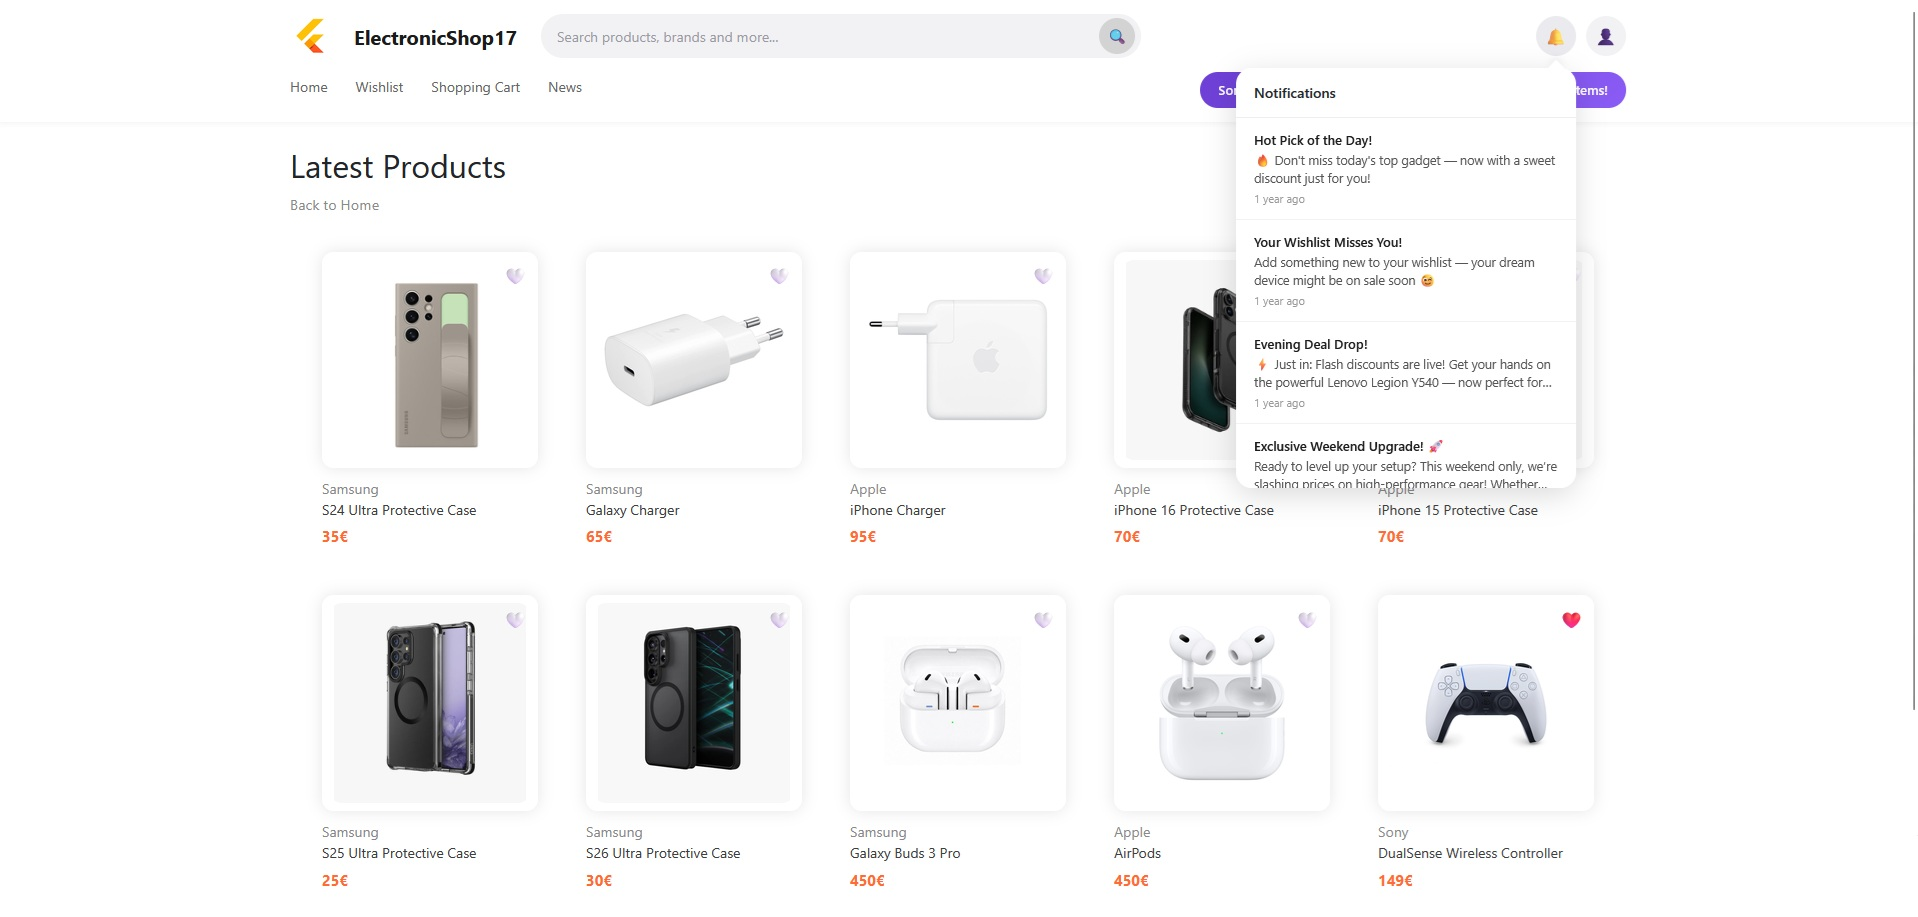
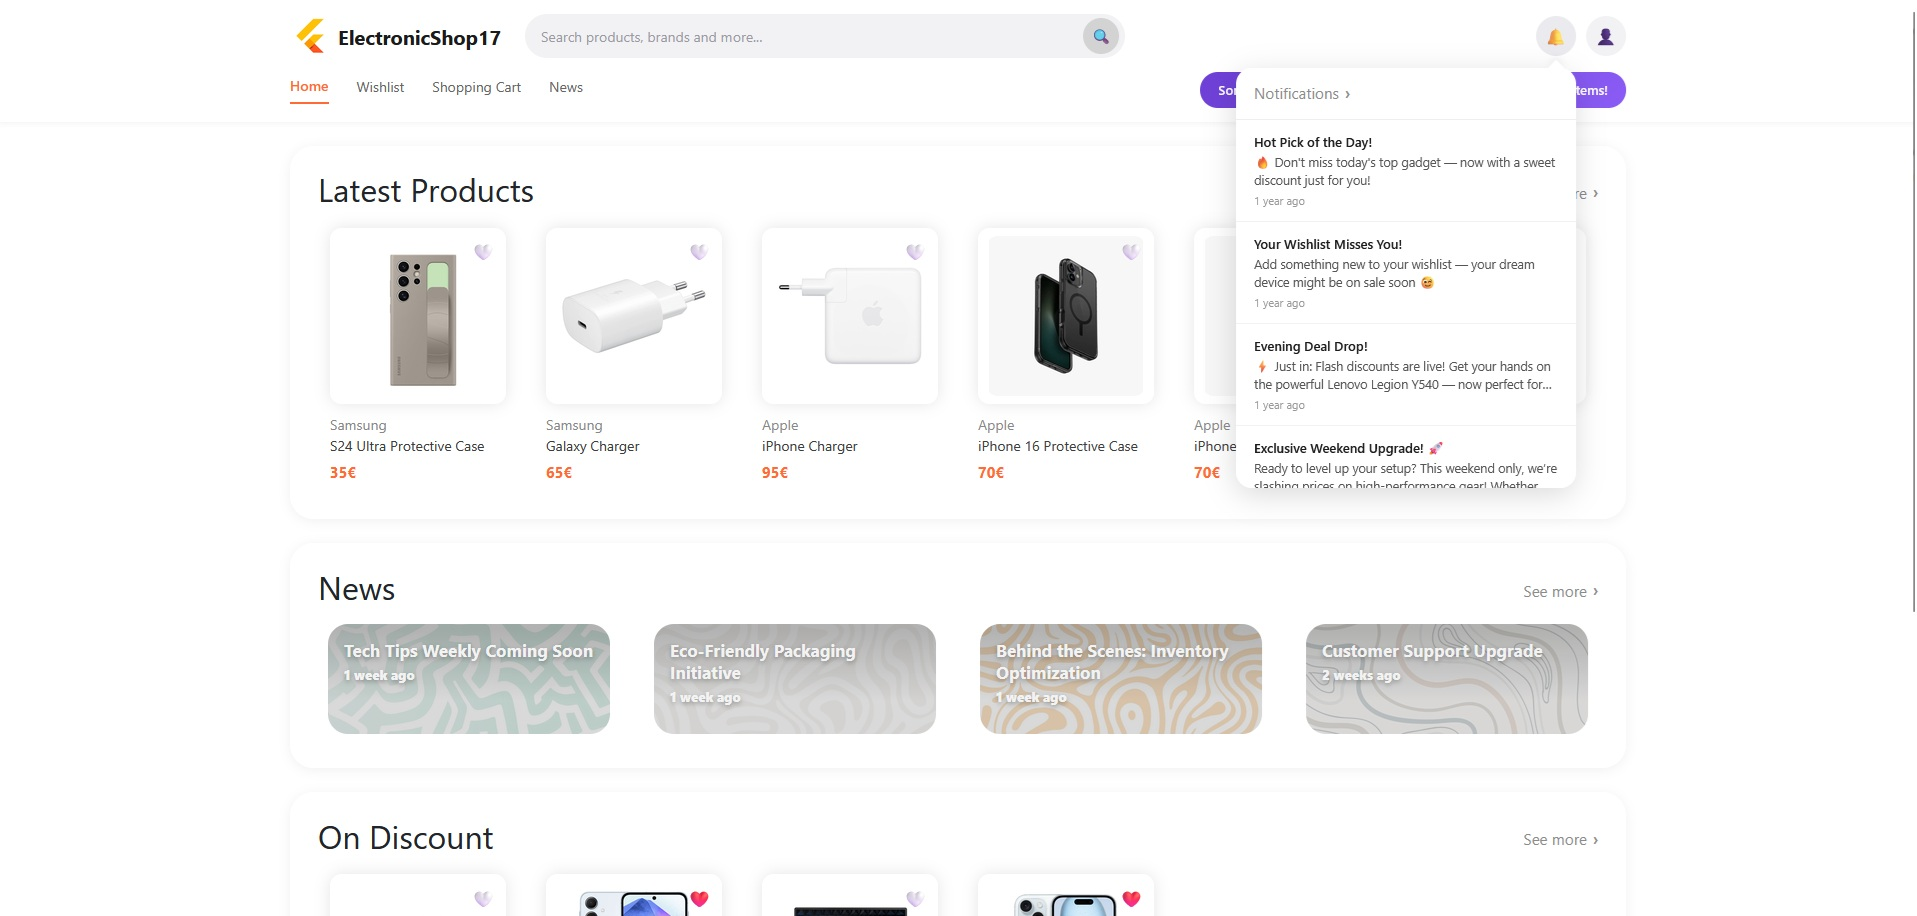
angular_8
Notifications Screen
Search Bar -> Products Screen Functionality
App Screenshots Update

diff --git a/angular17_web/src/app/screens/notifications/notifications.ts b/angular17_web/src/app/screens/notifications/notifications.ts
@@ -1,0 +1,75 @@
+import {ChangeDetectorRef, Component, OnDestroy, OnInit} from '@angular/core';
+
+import {ActivatedRoute, RouterLink} from '@angular/router';
+import {NotifCard} from '../../components/notif-card/notif-card';
+import {Notification} from '../../models/notification/notification';
+import {Subscription, switchMap} from 'rxjs';
+import {NotificationService} from '../../services/notification.service';
+import {AuthService} from '../../services/auth.service';
+
+
+@Component({
+  selector: 'app-notifications',
+  imports: [
+    NotifCard,
+    RouterLink
+  ],
+  templateUrl: './notifications.html',
+  styleUrl: './notifications.css',
+})
+export class Notifications implements OnInit, OnDestroy {
+  notifList: Notification[] = [];
+  selectedNotif: Notification | null = null;
+  errorMessage = '';
+  isLoadingNotifications = true;
+
+  private subs: Subscription[] = [];
+
+  constructor(
+    private route: ActivatedRoute,
+    private notifService: NotificationService,
+    private authService: AuthService,
+    private cd: ChangeDetectorRef
+  ) {}
+
+  ngOnInit(): void {
+    this.subs.push(
+      this.notifService.notifications$.subscribe(list => {
+        this.notifList = list;
+        this.cd.detectChanges();
+      })
+    );
+
+    const userId = this.authService.getUserId();
+
+    if (userId) {
+      this.isLoadingNotifications = true;
+      this.notifService.loadForUser(userId).finally(() => {
+        this.isLoadingNotifications = false;
+        this.cd.detectChanges();
+      });
+      this.notifService.initSignalR(() => this.authService.getAccessToken());
+    } else {
+      this.errorMessage = 'Please log in to view notifications.';
+      this.isLoadingNotifications = false;
+    }
+
+    this.route.paramMap
+      .pipe(
+        switchMap((params) => {
+          const id = params.get('id');
+          this.selectedNotif = null;
+          this.cd.detectChanges();
+          return id ? this.notifService.getByIdNoLoading(parseInt(id)) : [];
+        })
+      )
+      .subscribe((news) => {
+        if (news) this.selectedNotif = news as Notification;
+        this.cd.detectChanges();
+      });
+  }
+
+  ngOnDestroy(): void {
+    this.subs.forEach(s => s.unsubscribe());
+  }
+}

diff --git a/angular17_web/src/app/screens/notifications/notifications.html b/angular17_web/src/app/screens/notifications/notifications.html
@@ -1,0 +1,38 @@
+<div class="notif-page">
+  <section class="notif-detail section-card">
+    @if (selectedNotif) {
+      <div class="notif-detail-content">
+        <h2>{{ selectedNotif.title }}</h2>
+        <p>{{ selectedNotif.message }}</p>
+      </div>
+    } @else {
+      <div class="empty-message-block">
+        <p class="empty-message">No notification selected</p>
+      </div>
+    }
+  </section>
+
+  <section class="notif-list-section section-card">
+    <div class="section-header">
+      <h2>Notification</h2>
+    </div>
+
+    @if (errorMessage) {
+      <p class="error">{{ errorMessage }}</p>
+    } @else if (notifList.length > 0) {
+      <div class="notif-scroll">
+        @for (item of notifList; track item.id; let i = $index) {
+          <a [routerLink]="['/notification', item.id]"
+             class="notif-card-link"
+             [class.active]="selectedNotif?.id === item.id">
+            <app-notif-card
+              [notif]="item">
+            </app-notif-card>
+          </a>
+        }
+      </div>
+    } @else {
+      <p class="empty-message">No notifications right now.</p>
+    }
+  </section>
+</div>

diff --git a/angular17_web/src/app/screens/main-layout/main-layout.css b/angular17_web/src/app/screens/main-layout/main-layout.css
@@ -306,6 +306,33 @@
   border-radius: 16px;
 }
 
+.notif-content a {
+  display: inline-flex;
+  align-items: center;
+  gap: 6px;
+  color: #8a8a8a;
+  text-decoration: none;
+  font-size: 0.95rem;
+  font-weight: 500;
+  transition: color 0.2s ease;
+}
+
+.notif-content a::after {
+  content: '›';
+  display: inline-block;
+  font-family: sans-serif;
+  font-weight: bold;
+  transition: transform 0.2s ease;
+}
+
+.notif-content a:hover {
+  color: #2e2e2e;
+}
+
+.notif-content a:hover::after {
+  transform: translateX(3px);
+}
+
 .notif-header {
   padding: 14px 18px;
   font-weight: 600;

diff --git a/angular17_web/src/app/components/notif-card/notif-card.spec.ts b/angular17_web/src/app/components/notif-card/notif-card.spec.ts
@@ -1,0 +1,22 @@
+import { ComponentFixture, TestBed } from '@angular/core/testing';
+
+import { NotifCard } from './notif-card';
+
+describe('NotifCard', () => {
+  let component: NotifCard;
+  let fixture: ComponentFixture<NotifCard>;
+
+  beforeEach(async () => {
+    await TestBed.configureTestingModule({
+      imports: [NotifCard],
+    }).compileComponents();
+
+    fixture = TestBed.createComponent(NotifCard);
+    component = fixture.componentInstance;
+    await fixture.whenStable();
+  });
+
+  it('should create', () => {
+    expect(component).toBeTruthy();
+  });
+});

diff --git a/angular17_web/src/app/screens/notifications/notifications.spec.ts b/angular17_web/src/app/screens/notifications/notifications.spec.ts
@@ -1,0 +1,22 @@
+import { ComponentFixture, TestBed } from '@angular/core/testing';
+
+import { Notifications } from './notifications';
+
+describe('Notifications', () => {
+  let component: Notifications;
+  let fixture: ComponentFixture<Notifications>;
+
+  beforeEach(async () => {
+    await TestBed.configureTestingModule({
+      imports: [Notifications],
+    }).compileComponents();
+
+    fixture = TestBed.createComponent(Notifications);
+    component = fixture.componentInstance;
+    await fixture.whenStable();
+  });
+
+  it('should create', () => {
+    expect(component).toBeTruthy();
+  });
+});

diff --git a/angular17_web/src/app/components/notif-card/notif-card.ts b/angular17_web/src/app/components/notif-card/notif-card.ts
@@ -1,0 +1,16 @@
+import {Component, Input} from '@angular/core';
+import {Notification} from '../../models/notification/notification';
+
+import {TimeAgoPipe} from '../../helpers/time-ago-pipe';
+
+@Component({
+  selector: 'app-notif-card',
+  imports: [
+    TimeAgoPipe
+  ],
+  templateUrl: './notif-card.html',
+  styleUrl: './notif-card.css',
+})
+export class NotifCard {
+  @Input({ required: true }) notif!: Notification;
+}

diff --git a/angular17_web/src/app/screens/products/products.ts b/angular17_web/src/app/screens/products/products.ts
@@ -20,6 +20,7 @@ export class Products implements OnInit {
   isLoading = true;
   errorMessage = '';
   sortType: 'latest' | 'discount' | 'all' = 'all';
+  searchQuery = '';
 
   currentPage = 1;
   pageSize = 10;
@@ -36,6 +37,7 @@ export class Products implements OnInit {
 
     this.route.queryParams.subscribe(params => {
       this.sortType = params['sort'] || 'all';
+      this.searchQuery = params['search'] || '';
       this.currentPage = 1;
 
       if (userAccId) {
@@ -66,8 +68,12 @@ export class Products implements OnInit {
   private applySortingAndFiltering(): void {
     let tempProducts = [...this.allProducts];
 
-    if (this.sortType === 'latest') {
+    if (this.searchQuery) {
+      const q = this.searchQuery.toLowerCase();
+      tempProducts = tempProducts.filter(p => p.brand.toLowerCase().includes(q) || p.model.toLowerCase().includes(q));
+    }
 
+    if (this.sortType === 'latest') {
       tempProducts.sort((a, b) => b.id - a.id);
     }
     else if (this.sortType === 'discount') {
@@ -101,7 +107,6 @@ export class Products implements OnInit {
       window.scrollTo({ top: 0, behavior: 'smooth' });
     }
   }
-
 
   getPagesArray(): number[] {
     return Array.from({ length: this.totalPages }, (_, i) => i + 1);

diff --git a/angular17_web/src/app/services/notification.service.ts b/angular17_web/src/app/services/notification.service.ts
@@ -11,6 +11,7 @@ import { Notification } from '../models/notification/notification';
 import { Pagination } from '../models/pagination';
 import { MyConfig } from '../my-config';
 import {BYPASS_LOADING} from './loading/loading.interceptor';
+import {News} from '../models/news/news';
 
 export interface NotificationPopup {
   title: string;
@@ -118,5 +119,13 @@ export class NotificationService extends BaseCRUDProvider<Notification, SearchNo
   stopSignalR(): void {
     this.hubConnection?.stop();
     this.isConnected = false;
+  }
+
+  getByIdNoLoading(id: number): Promise<Notification> {
+    return firstValueFrom(
+      this.http.get<any>(`${this.baseUrl}${this.endpoint}/${id}`, {
+        context: new HttpContext().set(BYPASS_LOADING, true)
+      })
+    ).then(data => this.fromJson(data));
   }
 }

diff --git a/angular17_web/src/app/components/notif-card/notif-card.html b/angular17_web/src/app/components/notif-card/notif-card.html
@@ -1,0 +1,8 @@
+<div class="notif-card">
+  <div class="notif-overlay"></div>
+
+  <div class="notif-content">
+    <h3 class="notif-title">{{ notif.title || 'No Data' }}</h3>
+    <span class="notif-date">{{ notif.dateCreated | timeAgo }}</span>
+  </div>
+</div>

diff --git a/angular17_web/src/app/app.routes.ts b/angular17_web/src/app/app.routes.ts
@@ -8,6 +8,7 @@ import {Products} from './screens/products/products';
 import {NewsScreen} from './screens/news/news';
 import {WishlistScreen} from './screens/wishlist/wishlist';
 import {ShoppingCart} from './screens/shopping-cart/shopping-cart';
+import {Notifications} from './screens/notifications/notifications';
 
 export const routes: Routes = [
   { path: '', component: Splash },
@@ -24,7 +25,8 @@ export const routes: Routes = [
       { path: 'news/:id', component: NewsScreen },
       { path: 'wishlist', component: WishlistScreen  },
       { path: 'cart', component: ShoppingCart  },
-
+      { path: 'notification', component: Notifications  },
+      { path: 'notification/:id', component: Notifications },
     ]
   },
 

diff --git a/angular17_web/src/app/screens/main-layout/main-layout.html b/angular17_web/src/app/screens/main-layout/main-layout.html
@@ -21,7 +21,8 @@
         @if (isNotifMenuOpen) {
           <div class="notif-dropdown" [class.open]="isNotifMenuOpen">
             <div class="notif-content">
-              <div class="notif-header">Notifications</div>
+              <a routerLink="/notification" class="notif-header"
+                 (click)="isNotifMenuOpen = false">Notifications</a>
 
               @if (isLoadingNotifications) {
                 <div class="notif-empty">

diff --git a/angular17_web/src/app/screens/main-layout/main-layout.ts b/angular17_web/src/app/screens/main-layout/main-layout.ts
@@ -188,6 +188,9 @@ export class MainLayout implements OnInit, OnDestroy {
     this.notificationService.markAsRead(userId, notification.id).catch(err =>
       console.error('Failed to mark notification as read:', err)
     );
+
+    this.isNotifMenuOpen = false;
+    this.router.navigate(['/notification', notification.id]);
   }
 
   get notificationCount(): number {